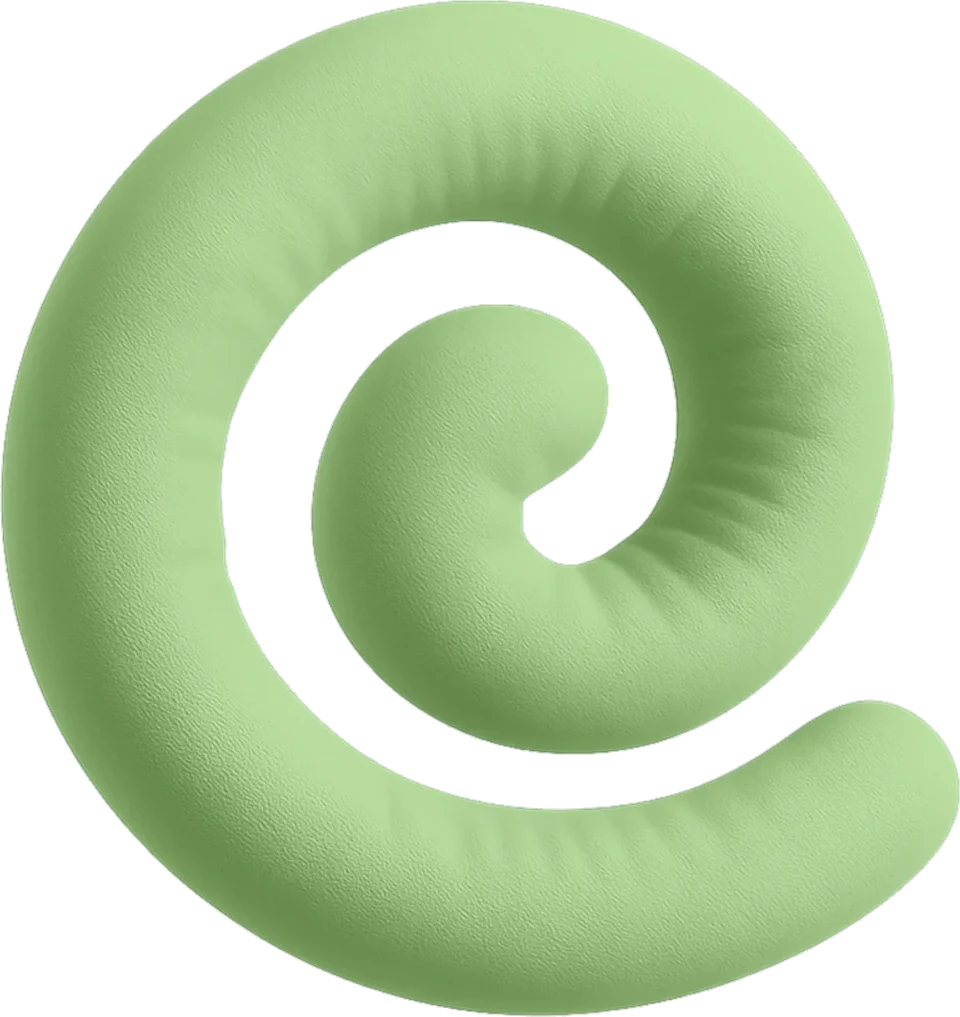
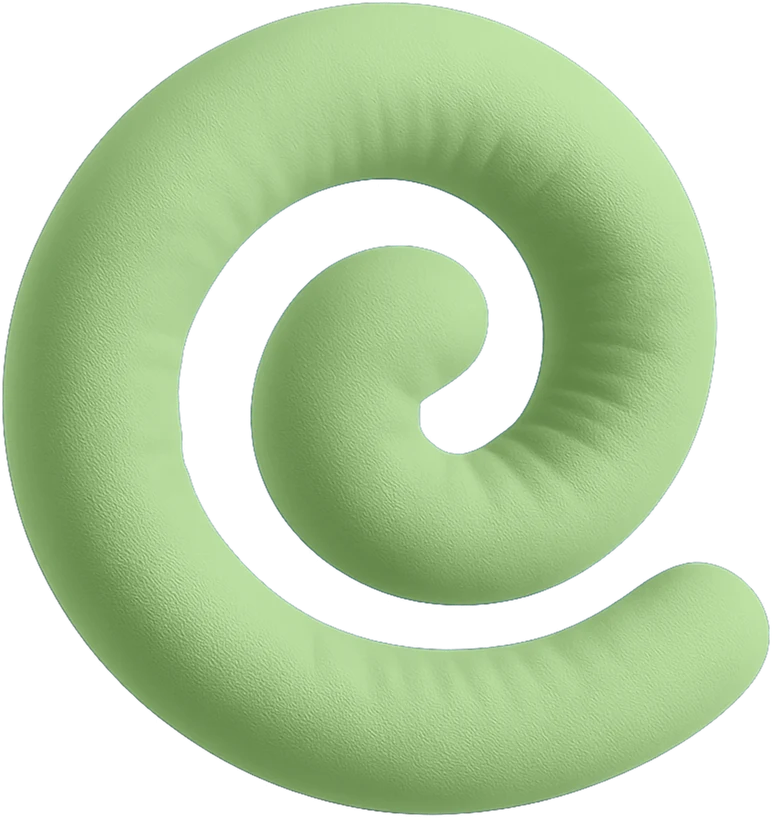
Rebuild the 3D shapes from Figma's raw layers and drop the key-numbers band
Each shape is now the pack's transparent base render recoloured with its
fill colour inside the shape mask, so the soft shadow is real and there is
no light halo. The four-tile numbers band under the hero repeated the
hero and is gone.

diff --git a/src/app/page.tsx b/src/app/page.tsx
@@ -70,12 +70,6 @@ const audiences = [
   },
 ];
 
-const keyNumbers = [
-  { value: "3 days", label: "the minimum the government asks every household to cover" },
-  { value: "3 litres", label: "of drinking water per person per day, the gov.uk figure" },
-  { value: "9 things", label: "to get first, over a few weeks, from your normal shop" },
-  { value: "2 names", label: "of neighbours you know, and who know you" },
-];
 
 export default function Home() {
   const hero = photoCredits().find((c) => c.slot === "home-hero" && c.rank === 1);
@@ -127,16 +121,6 @@ export default function Home() {
             <Illustration name="hero" alt="" className="drop-shadow-2xl" />
           </div>
         </div>
-      </section>
-
-      {/* Key numbers */}
-      <section className="wrap mt-6 grid grid-cols-2 gap-3 md:grid-cols-4">
-        {keyNumbers.map((k) => (
-          <div key={k.label} className="rounded-2xl border border-line bg-surface px-5 py-5">
-            <p className="font-heading text-3xl font-medium text-heading sm:text-4xl">{k.value}</p>
-            <p className="mt-1 text-sm text-muted">{k.label}</p>
-          </div>
-        ))}
       </section>
 
       {/* What might actually stop */}
